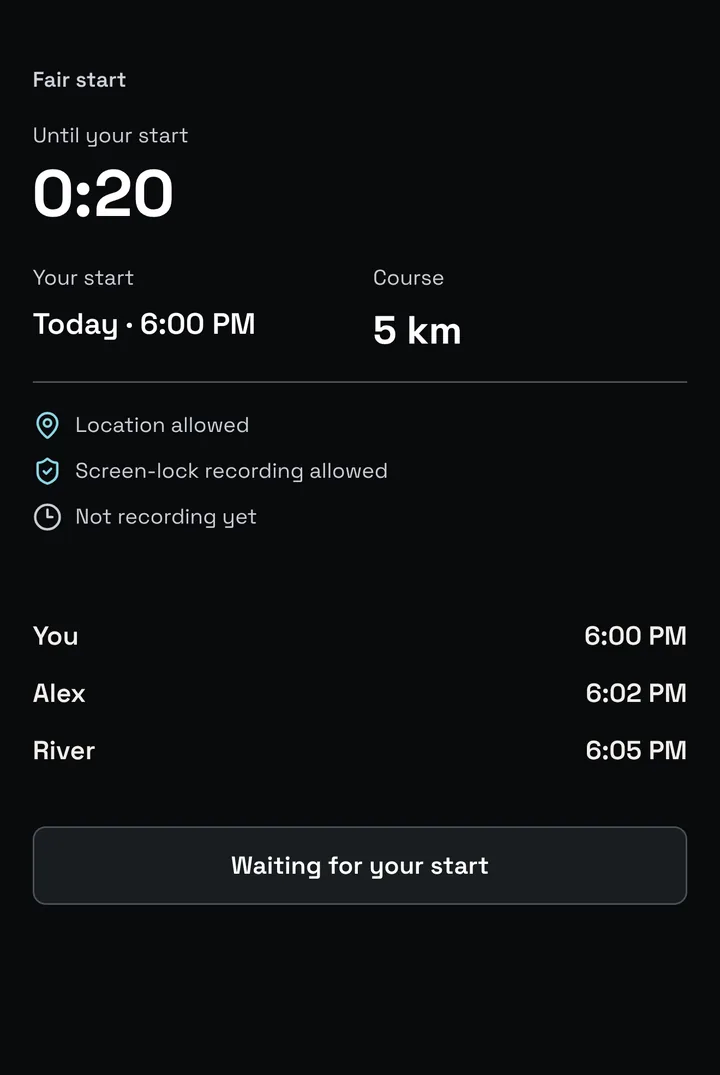
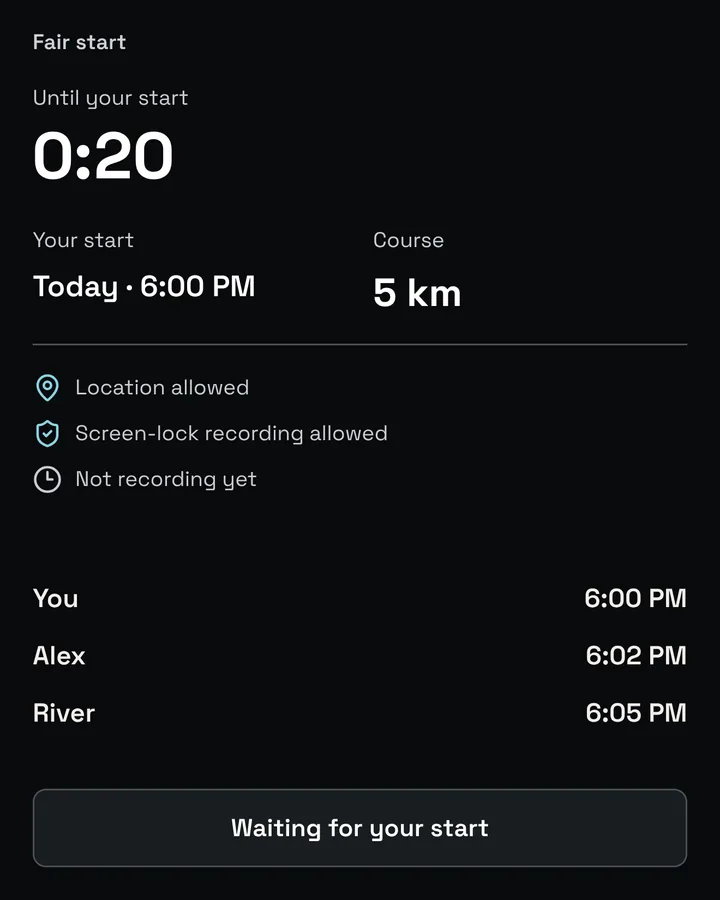
Crop every screen plate to its content with even padding
Each plate is cropped to its measured content box with 20px of padding top
and bottom, and its frame fits the image. The opening strip keeps one frame
height using fuller screens (Start line now shows the waiting state). The
race-day stage stacks plates of different heights and puts its caption above
them.

Claude-Session: https://claude.ai/code/session_01WrYD5pUt2RNFvi8UDoCkwH

diff --git a/index.html b/index.html
@@ -121,7 +121,7 @@
                   class="plate"
                   src="/assets/screens/strip-find.webp"
                   width="540"
-                  height="967"
+                  height="751"
                   decoding="async"
                   alt="Find screen with three fictional races nearby, each with date, distance, start style and runner count."
                 />
@@ -136,7 +136,7 @@
                   class="plate"
                   src="/assets/screens/strip-start.webp"
                   width="540"
-                  height="967"
+                  height="751"
                   decoding="async"
                   alt="Race day card for a fictional 5 km race: 20 minutes until your start at 8:01 AM, readiness checks and the start order."
                 />
@@ -151,9 +151,9 @@
                   class="plate"
                   src="/assets/screens/strip-line.webp"
                   width="540"
-                  height="967"
+                  height="751"
                   decoding="async"
-                  alt="Start line screen: your start is open, with a Start recording button and location and screen-lock checks."
+                  alt="Start line screen: 0:20 until your start at 6:00 PM, readiness checks, other runners&rsquo; start times and Waiting for your start."
                 />
               </figure>
             </li>
@@ -166,9 +166,9 @@
                   class="plate"
                   src="/assets/screens/strip-chase.webp"
                   width="540"
-                  height="967"
+                  height="751"
                   decoding="async"
-                  alt="Recording screen: race time 5:42, 1 km covered, live position 12th of 120, and estimated gaps to the runners ahead and behind."
+                  alt="Recording screen: race time 5:42, 1 km covered, live position 12th of 120, and the projected order with estimated gaps."
                 />
               </figure>
             </li>
@@ -181,9 +181,9 @@
                   class="plate"
                   src="/assets/screens/strip-result.webp"
                   width="540"
-                  height="967"
+                  height="751"
                   decoding="async"
-                  alt="Final result for a fictional runner: 2nd of 6 in 25:42, 0:09 behind River, with Propose a rematch and Share result."
+                  alt="Final result for a fictional runner: 2nd of 6 in 25:42, 0:09 behind River, with distance, gap, head start and finishers."
                 />
               </figure>
             </li>
@@ -267,7 +267,7 @@
                 class="plate"
                 src="/assets/screens/way-solo.webp"
                 width="720"
-                height="859"
+                height="790"
                 loading="lazy"
                 decoding="async"
                 alt="Run saved screen for a fictional Just run: 5.40 km in 28:20, saved locally on the device."
@@ -291,7 +291,7 @@
                 class="plate"
                 src="/assets/screens/way-race.webp"
                 width="720"
-                height="859"
+                height="501"
                 loading="lazy"
                 decoding="async"
                 alt="Live runner list for a fictional race: River leading, you second at 0:09 to the leader, Alex waiting for GPS."
@@ -315,7 +315,7 @@
                 class="plate"
                 src="/assets/screens/way-host.webp"
                 width="720"
-                height="859"
+                height="496"
                 loading="lazy"
                 decoding="async"
                 alt="Race rules summary: Fair start, all paces welcome, rules fixed for this race."
@@ -362,7 +362,7 @@
                   class="plate"
                   src="/assets/screens/step-start.webp"
                   width="720"
-                  height="1075"
+                  height="502"
                   loading="lazy"
                   decoding="async"
                   alt="Race card showing a fictional 5 km race, your start time and a Get ready button."
@@ -383,7 +383,7 @@
                   class="plate"
                   src="/assets/screens/step-countdown.webp"
                   width="720"
-                  height="1075"
+                  height="712"
                   loading="lazy"
                   decoding="async"
                   alt="Countdown ring showing 0:55 until your start, with location and screen-lock recording allowed."
@@ -404,7 +404,7 @@
                   class="plate"
                   src="/assets/screens/step-line.webp"
                   width="720"
-                  height="1075"
+                  height="900"
                   loading="lazy"
                   decoding="async"
                   alt="Start line screen: 0:20 until your start at 6:00 PM, other runners' start times, and Waiting for your start."
@@ -425,7 +425,7 @@
                   class="plate"
                   src="/assets/screens/step-chase.webp"
                   width="720"
-                  height="1075"
+                  height="612"
                   loading="lazy"
                   decoding="async"
                   alt="Field progress for four fictional runners: on course, last known position and no position yet."
@@ -447,7 +447,7 @@
                   class="plate"
                   src="/assets/screens/step-result.webp"
                   width="720"
-                  height="1075"
+                  height="1021"
                   loading="lazy"
                   decoding="async"
                   alt="Finish recorded and under review: race time 25:42, place confirmed when results are final."

diff --git a/demo/index.html b/demo/index.html
@@ -158,7 +158,7 @@
               class="plate"
               src="/assets/screens/way-solo.webp"
               width="720"
-              height="859"
+              height="790"
               loading="lazy"
               decoding="async"
               alt="Run saved screen for a fictional Just run: 5.40 km in 28:20, saved locally on the device."
@@ -227,7 +227,7 @@
               class="plate"
               src="/assets/screens/race-start.webp"
               width="720"
-              height="1289"
+              height="969"
               loading="lazy"
               decoding="async"
               alt="Race day card for a fictional 5 km race: 20 minutes until your start at 8:01 AM, readiness checks and the start order."
@@ -355,7 +355,7 @@
               class="plate"
               src="/assets/screens/race-result.webp"
               width="720"
-              height="1289"
+              height="1167"
               loading="lazy"
               decoding="async"
               alt="Final result for a fictional runner: 2nd of 6 in 25:42, 0:09 behind River, with Propose a rematch and Share result."

diff --git a/styles.css b/styles.css
@@ -832,18 +832,17 @@ details > p + p {
     grid-row: 2;
     align-self: start;
     position: sticky;
-    top: calc(var(--header) + max(24px, (100vh - var(--header) - 580px) / 2));
+    top: calc(var(--header) + max(24px, (100vh - var(--header) - 560px) / 2));
     margin-top: clamp(48px, 5vw, 64px);
     width: min(100%, 358px);
     justify-self: center;
   }
   .sequence-stage .stage-frame {
-    position: relative;
-    aspect-ratio: 720 / 1075;
+    display: grid;
   }
   .sequence-stage img {
-    position: absolute;
-    inset: 0;
+    grid-area: 1 / 1;
+    align-self: start;
     opacity: 0;
     transition: opacity 0.6s var(--ease);
   }
@@ -851,7 +850,7 @@ details > p + p {
     opacity: 1;
   }
   .sequence-stage .caption {
-    margin-top: 20px;
+    margin: 0 0 16px;
   }
 }
 

diff --git a/RELEASE-CHECKLIST.md b/RELEASE-CHECKLIST.md
@@ -59,29 +59,35 @@ locale en-US, time zone America/New_York, clock fixed at
   Cropped to the content between the app header and the tab bar.
 - Components: /?scenario=NAME&capture=1 at 440 CSS px wide, with 24px / 20px
   padding added around main.capture so content does not touch the plate edge.
-  Scenarios: race-day, start-open, recording, final, upcoming, countdown,
+  Scenarios: race-day, recording, final, upcoming, countdown,
   start-line, field-progress, under-review, just-run-finished, all-runners,
   manage-rules-fair.
 
-Each capture is cropped at a clean boundary between elements, padded with its
-own background to a fixed frame, resized with Lanczos and saved as WebP at
-quality 82:
+Each capture is cropped to its content box (measured from the pixels), then
+given 20 CSS px of even padding top and bottom in its own background, so no
+frame shows a large empty area. Component captures already carry 20px side
+padding. The five opening film-strip plates share one frame (440 x 612 CSS px,
+or 402 x 559 for the Find screen), with content centred; fuller screens were
+chosen so that frame stays filled. Each is resized with Lanczos and saved as
+WebP at quality 82:
 
-| File | Source | Frame (CSS px) | Size |
-| --- | --- | --- | --- |
-| strip-find | screen=find | 402 x 720 | 540 x 967 |
-| strip-start, race-start | race-day | 440 x 788 | 540 x 967, 720 x 1289 |
-| strip-line | start-open | 440 x 788 | 540 x 967 |
-| strip-chase | recording (to 712px) | 440 x 788 | 540 x 967 |
-| strip-result, race-result | final (to 720px) | 440 x 788 | 540 x 967, 720 x 1289 |
-| step-start | upcoming | 440 x 657 | 720 x 1075 |
-| step-countdown | countdown | 440 x 657 | 720 x 1075 |
-| step-line | start-line | 440 x 657 | 720 x 1075 |
-| step-chase | field-progress | 440 x 657 | 720 x 1075 |
-| step-result | under-review (to 620px) | 440 x 657 | 720 x 1075 |
-| way-solo | just-run-finished (to 470px) | 440 x 525 | 720 x 859 |
-| way-race | all-runners | 440 x 525 | 720 x 859 |
-| way-host | manage-rules-fair | 440 x 525 | 720 x 859 |
+| File | Source | Content rows (CSS px) | Frame (CSS px) | Size |
+| --- | --- | --- | --- | --- |
+| strip-find | screen=find | 77-577 | 402 x 559 | 540 x 751 |
+| strip-start | race-day | 24-576 | 440 x 612 | 540 x 751 |
+| strip-line | start-line | 43-553 | 440 x 612 | 540 x 751 |
+| strip-chase | recording | 24-596 | 440 x 612 | 540 x 751 |
+| strip-result | final | 24-561 | 440 x 612 | 540 x 751 |
+| race-start | race-day | 24-576 | 440 x 592 | 720 x 969 |
+| race-result | final | 24-697 | 440 x 713 | 720 x 1167 |
+| step-start | upcoming | 24-291 | 440 x 307 | 720 x 502 |
+| step-countdown | countdown | 43-438 | 440 x 435 | 720 x 712 |
+| step-line | start-line | 43-553 | 440 x 550 | 720 x 900 |
+| step-chase | field-progress | 45-379 | 440 x 374 | 720 x 612 |
+| step-result | under-review | 24-608 | 440 x 624 | 720 x 1021 |
+| way-solo | just-run-finished | 11-454 | 440 x 483 | 720 x 790 |
+| way-race | all-runners | 67-333 | 440 x 306 | 720 x 501 |
+| way-host | manage-rules-fair | 44-307 | 440 x 303 | 720 x 496 |
 
 Every file is under 25 KB. Images are served at or above twice their displayed
 CSS size. The previous assets/product/ PNGs were removed once nothing used them.
